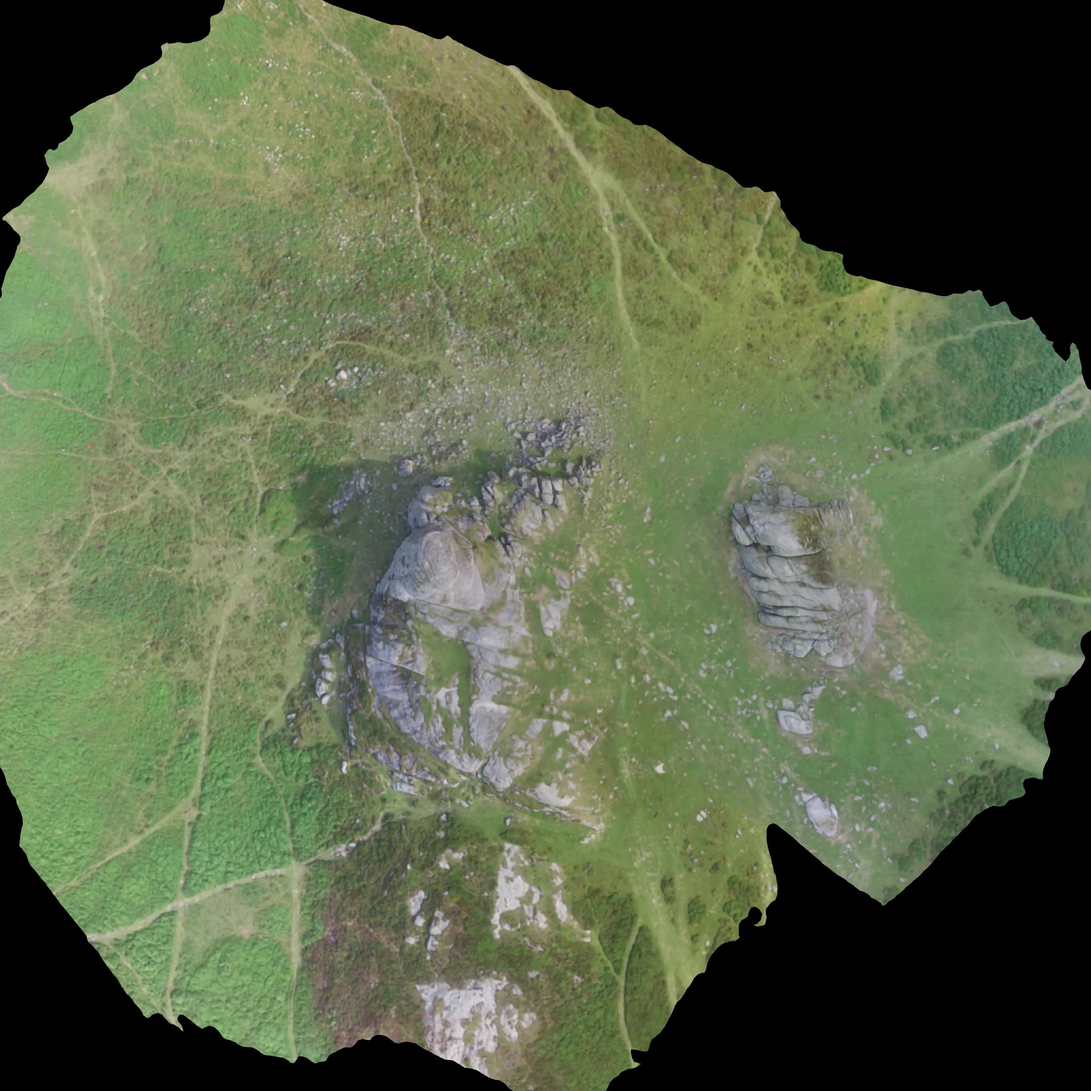
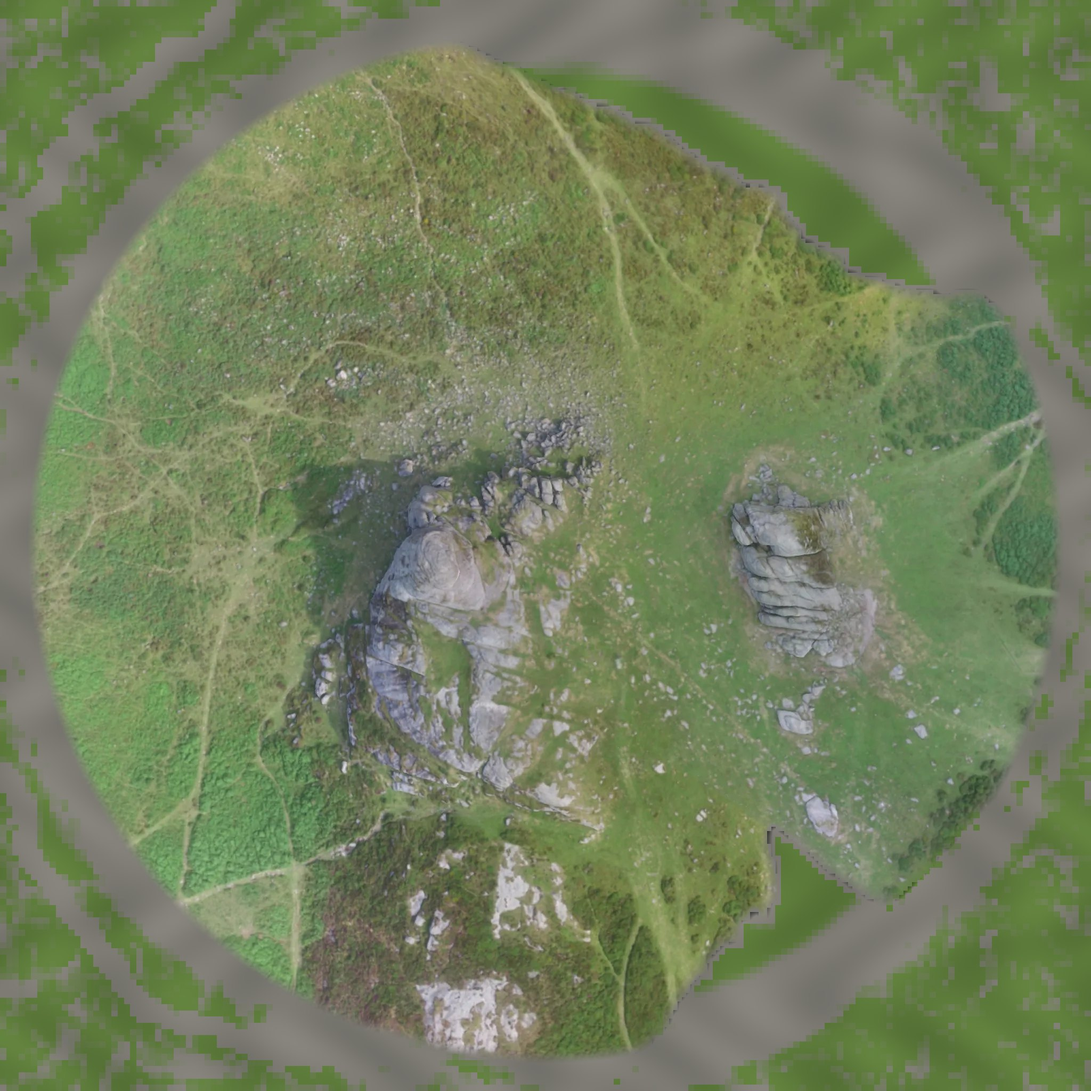
Unity: keep physics module from stripping (boxes), crates without CreatePrimitive, centred joystick knob, aerial photo blended with generated ground outside the scan
Claude-Session: https://claude.ai/code/session_01Qk5AhTg9vjZDbHQRN5Qkh8

diff --git a/scripts/unity/export-maps.ts b/scripts/unity/export-maps.ts
@@ -27,7 +27,32 @@ for (const m of MAP_LIST) {
     areas: map.areas,
   };
   fs.writeFileSync(`${OUT}/Maps/${m.id}.json`, JSON.stringify(json));
-  if (map.albedo) await sharp(`client/public/assets/maps/${map.albedo}`).jpeg({ quality: 88 }).toFile(`${OUT}/Maps/${m.id}_albedo.jpg`);
+  if (map.albedo) {
+    // aerial photo where the scan has data, generated ground colours (grass / sand / rock by slope) elsewhere
+    const W = 2048;
+    const { data: photo } = await sharp(`client/public/assets/maps/${map.albedo}`).resize(W, W).removeAlpha().raw().toBuffer({ resolveWithObject: true });
+    const n = map.cells + 1, cell = map.size / map.cells, half = map.size / 2;
+    const desert = map.id === 'desert';
+    const base = desert ? [196, 132, 92] : [92, 122, 58], rock = desert ? [138, 74, 50] : [125, 123, 116];
+    const out = Buffer.alloc(W * W * 3);
+    for (let r = 0; r < W; r++) for (let c = 0; c < W; c++) {
+      const x = -half + ((c + 0.5) / W) * map.size, z = -half + ((r + 0.5) / W) * map.size; // image top row = -z edge
+      const fx = Math.min(map.cells - 1e-6, Math.max(0, (x + half) / cell)), fz = Math.min(map.cells - 1e-6, Math.max(0, (z + half) / cell));
+      const ix = Math.floor(fx), iz = Math.floor(fz), u = fx - ix, v = fz - iz;
+      const g = (a: Float32Array | undefined, i: number) => (a ? a[i] : 0);
+      const mk = map.mask ? g(map.mask, iz * n + ix) * (1 - u) * (1 - v) + g(map.mask, iz * n + ix + 1) * u * (1 - v) + g(map.mask, (iz + 1) * n + ix) * (1 - u) * v + g(map.mask, (iz + 1) * n + ix + 1) * u * v : 1;
+      const h = (i: number) => map.heights[Math.min(n * n - 1, i)];
+      const slope = Math.hypot(h(iz * n + ix + 1) - h(iz * n + ix), h((iz + 1) * n + ix) - h(iz * n + ix)) / cell;
+      const k = Math.min(1, Math.max(0, (slope - 0.35) / 0.4)), noise = 0.92 + 0.16 * ((Math.sin(x * 0.11 + Math.cos(z * 0.07) * 2) * Math.cos(z * 0.09 + Math.sin(x * 0.05)) + 1) / 2);
+      const o = (r * W + c) * 3;
+      for (let ch = 0; ch < 3; ch++) {
+        const gen = (base[ch] * (1 - k) + rock[ch] * k) * noise;
+        const t = Math.min(1, Math.max(0, (mk - 0.15) / 0.7));
+        out[o + ch] = Math.round(photo[o + ch] * t + gen * (1 - t));
+      }
+    }
+    await sharp(out, { raw: { width: W, height: W, channels: 3 } }).jpeg({ quality: 86 }).toFile(`${OUT}/Maps/${m.id}_albedo.jpg`);
+  }
   console.log(m.id, 'props', json.props.length, 'boxes', json.boxes.length, (fs.statSync(`${OUT}/Maps/${m.id}.json`).size / 1024).toFixed(0), 'KB');
 }
 

diff --git a/unity/Assets/LastWar/Scripts/Runtime/MapBuilder.cs b/unity/Assets/LastWar/Scripts/Runtime/MapBuilder.cs
@@ -162,15 +162,27 @@ namespace LastWar
             return m;
         }
 
+        static Mesh cube;
+        static Mesh CubeMesh()
+        {
+            if (cube != null) return cube;
+            cube = Resources.GetBuiltinResource<Mesh>("Cube.fbx");
+            return cube;
+        }
+        static readonly Dictionary<int, Material> boxMats = new Dictionary<int, Material>();
+
         static void PlaceBox(BoxData b, Transform parent)
         {
-            var go = GameObject.CreatePrimitive(PrimitiveType.Cube);
-            go.name = "box";
+            var go = new GameObject("box");
+            go.AddComponent<MeshFilter>().sharedMesh = CubeMesh();
+            go.AddComponent<MeshRenderer>();
+            go.AddComponent<BoxCollider>(); // unit cube, scaled below
             go.transform.SetParent(parent, false);
             go.transform.SetPositionAndRotation(Coords.ToUnity(b.x, b.y, b.z), Coords.Yaw(b.rot));
             go.transform.localScale = new Vector3(b.hx * 2, b.hy * 2, b.hz * 2);
             Color c = new Color(((b.color >> 16) & 255) / 255f, ((b.color >> 8) & 255) / 255f, (b.color & 255) / 255f);
-            go.GetComponent<MeshRenderer>().sharedMaterial = NewLit(c);
+            if (!boxMats.TryGetValue(b.color, out Material mat)) { mat = NewLit(c); boxMats[b.color] = mat; }
+            go.GetComponent<MeshRenderer>().sharedMaterial = mat;
         }
     }
 }

diff --git a/unity/Assets/LastWar/Scripts/Runtime/TouchControls.cs b/unity/Assets/LastWar/Scripts/Runtime/TouchControls.cs
@@ -43,7 +43,8 @@ namespace LastWar
 
             joyBase = Circle("Joystick", new Vector2(260, 230), 220, new Color(0, 0, 0, 0.25f), new Color(1, 1, 1, 0.45f));
             joyKnob = Circle("Knob", Vector2.zero, 100, new Color(1, 1, 1, 0.55f), Color.clear);
-            joyKnob.SetParent(joyBase, false); joyKnob.anchoredPosition = Vector2.zero;
+            joyKnob.SetParent(joyBase, false);
+            joyKnob.anchorMin = joyKnob.anchorMax = new Vector2(0.5f, 0.5f); joyKnob.anchoredPosition = Vector2.zero;
 
             AddButton("JUMP", new Vector2(-150, 260), 150, () => JumpPressed = true);
             AddButton("RUN", new Vector2(-150, 480), 120, () => Sprint = !Sprint);
